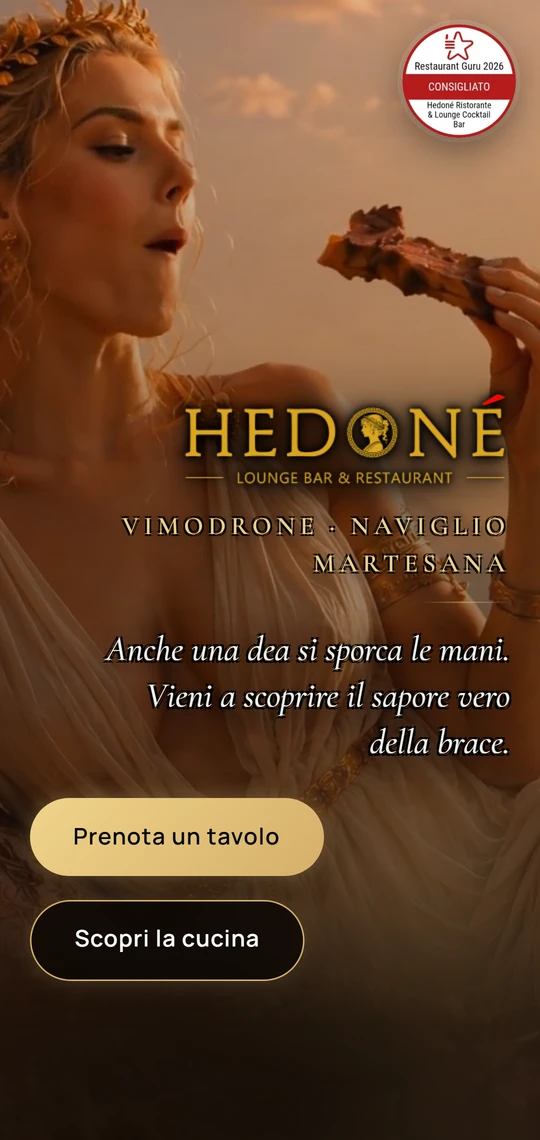
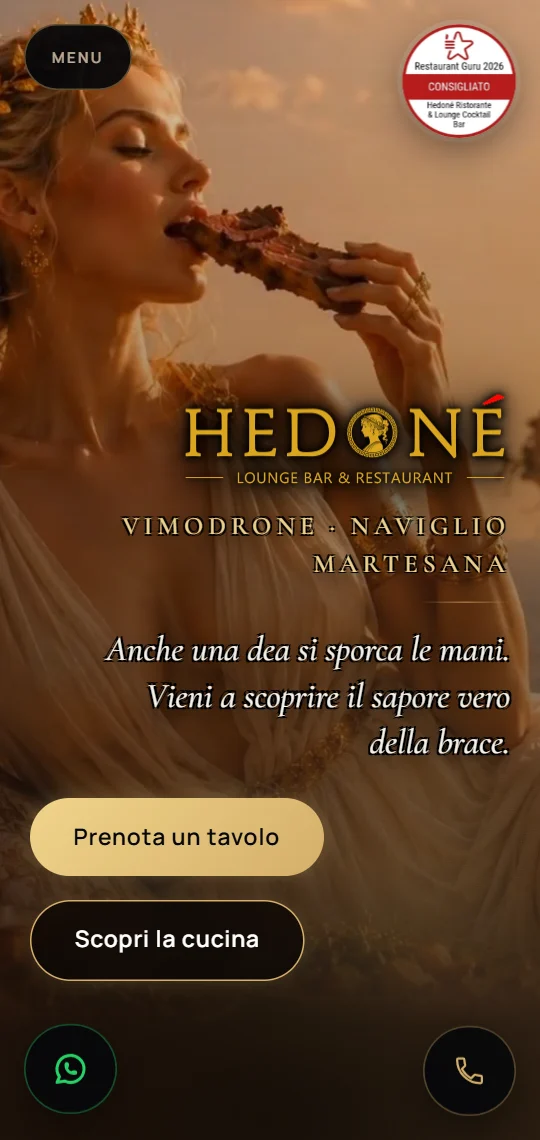
Landing: fogli a schermo intero su telefono, esempio su tono diverso, senza barra colori; Hedone: fotogramma sobrio; home mobile scheda piu' in basso

diff --git a/home-corona/servizi.css b/home-corona/servizi.css
@@ -1297,3 +1297,33 @@ html[data-tema] main > section.tm-ponte { background: #0B0B0D !important; color:
 /* sfumatura più leggera: l'esempio resta nitido */
 @media (min-width: 761px) { .lp-foglio .lp-esempio { -webkit-mask-image: linear-gradient(90deg, transparent 0, #000 9%, #000 94%, transparent 100%), linear-gradient(180deg, transparent 0, #000 4%, #000 96%, transparent 100%) !important; mask-image: linear-gradient(90deg, transparent 0, #000 9%, #000 94%, transparent 100%), linear-gradient(180deg, transparent 0, #000 4%, #000 96%, transparent 100%) !important; } }
 @media (max-width: 760px) { .lp-foglio .lp-esempio { -webkit-mask-image: linear-gradient(180deg, transparent 0, #000 10%, #000 94%, transparent 100%), linear-gradient(90deg, transparent 0, #000 4%, #000 96%, transparent 100%) !important; mask-image: linear-gradient(180deg, transparent 0, #000 10%, #000 94%, transparent 100%), linear-gradient(90deg, transparent 0, #000 4%, #000 96%, transparent 100%) !important; } }
+
+/* Landing: niente barra «Cambia colore»; telefono a schermo intero (apertura = schermo - barra), esempio in basso */
+.lp-colori { display: none !important; }
+@media (max-width: 760px) {
+  .lp-hero, .lp-pila { min-height: 0 !important; height: calc(100svh - var(--nav-h, 52px)) !important; }
+  .lp-foglio .lp-stampa { padding-top: clamp(12px, 2.4svh, 22px); }
+  .lp-hero .lp-foglio h1, .lp-hero .lp-foglio .lp-h1 { font-size: clamp(32px, min(9.2vw, 5.4svh), 42px); margin-top: 8px; }
+  .lp-foglio .lp-freccia { font-size: clamp(28px, 4.6svh, 40px); margin: 0 0 2px; }
+  .lp-foglio .lp-sotto > p { font-size: clamp(14px, 2.1svh, 16px); margin-bottom: 10px; }
+  .lp-foglio .lp-cta { min-height: clamp(42px, 6svh, 48px); }
+  .lp-foglio .lp-esempio { bottom: 0 !important; height: 41% !important; }
+  .lp-foglio .lp-piega { --pg: 54px; }
+}
+
+/* L'esempio è una zona a sé, di un tono diverso dal foglio: l'attenzione resta sul testo */
+.lp-foglio { --t: #E3DDD1; }
+.lp-foglio.lp-c1 { --t: #3B183B; }
+.lp-foglio.lp-c2 { --t: #221F1B; }
+.lp-foglio.lp-c3 { --t: #B8A7C2; }
+@media (min-width: 761px) {
+  .lp-foglio::before { content: ""; position: absolute; z-index: 0; right: 0; top: 0; bottom: 0; width: 52%; background: var(--t); pointer-events: none; }
+  .lp-foglio .lp-esempio { top: 8% !important; height: 84% !important; width: 52% !important; }
+}
+@media (max-width: 760px) {
+  /* telefono: il testo in alto, poi subito l'esempio su fondo di tono diverso, a riempire il resto */
+  .lp-foglio .lp-stampa, .lp-foglio .lp-sotto { flex: none; }
+  .lp-foglio .lp-esempio { position: relative !important; order: 5; flex: 1 1 auto; min-height: 0; margin-top: 14px; bottom: auto !important; left: auto !important; right: auto !important; top: auto !important; width: 100% !important; height: auto !important; background: var(--t) !important; -webkit-mask-image: none !important; mask-image: none !important; }
+  .lp-foglio .lp-esempio img { object-fit: cover !important; object-position: center top; }
+  .lp-foglio .lp-sotto { padding-bottom: 0; }
+}

diff --git a/home-corona/index.html b/home-corona/index.html
@@ -139,7 +139,7 @@ html[data-home="01"] .ap01-scena { margin-bottom: -1px; }
 /* Apertura 01 · l'apertura lascia intravedere la prima slide: i progetti sembrano la sua continuazione */
 html[data-home="01"] .ap01 { min-height: calc(100svh - var(--nav-h, 58px) - clamp(70px, 11svh, 110px)) !important; padding-bottom: 8px; }
 @media (max-width: 899px) {
-  html[data-home="01"] .ap01 { min-height: calc(100svh - var(--nav-h, 52px) - 96px) !important; height: calc(100svh - var(--nav-h, 52px) - 96px); place-items: stretch center; padding: 12px 20px 22px; }
+  html[data-home="01"] .ap01 { min-height: calc(100svh - var(--nav-h, 52px) - 58px) !important; height: calc(100svh - var(--nav-h, 52px) - 58px); place-items: stretch center; padding: 12px 20px 22px; }
   html[data-home="01"] .ap01-corpo { justify-content: flex-start; gap: 0; }
   html[data-home="01"] .ap01-tech { margin-top: auto; }
   html[data-home="01"] .ap01 h1 { margin-top: auto; }

diff --git a/home-corona/landing-page.html b/home-corona/landing-page.html
@@ -11,7 +11,7 @@
 <link rel="icon" href="../assets/img/icona-32.png" sizes="32x32">
 <link rel="apple-touch-icon" href="../assets/img/icona-180.png">
 <link rel="stylesheet" href="corona.css?v=353">
-<link rel="stylesheet" href="servizi.css?v=284421">
+<link rel="stylesheet" href="servizi.css?v=284427">
 <link rel="stylesheet" href="menu-barra.css?v=380">
 </head>
 <body class="pag-servizio">
